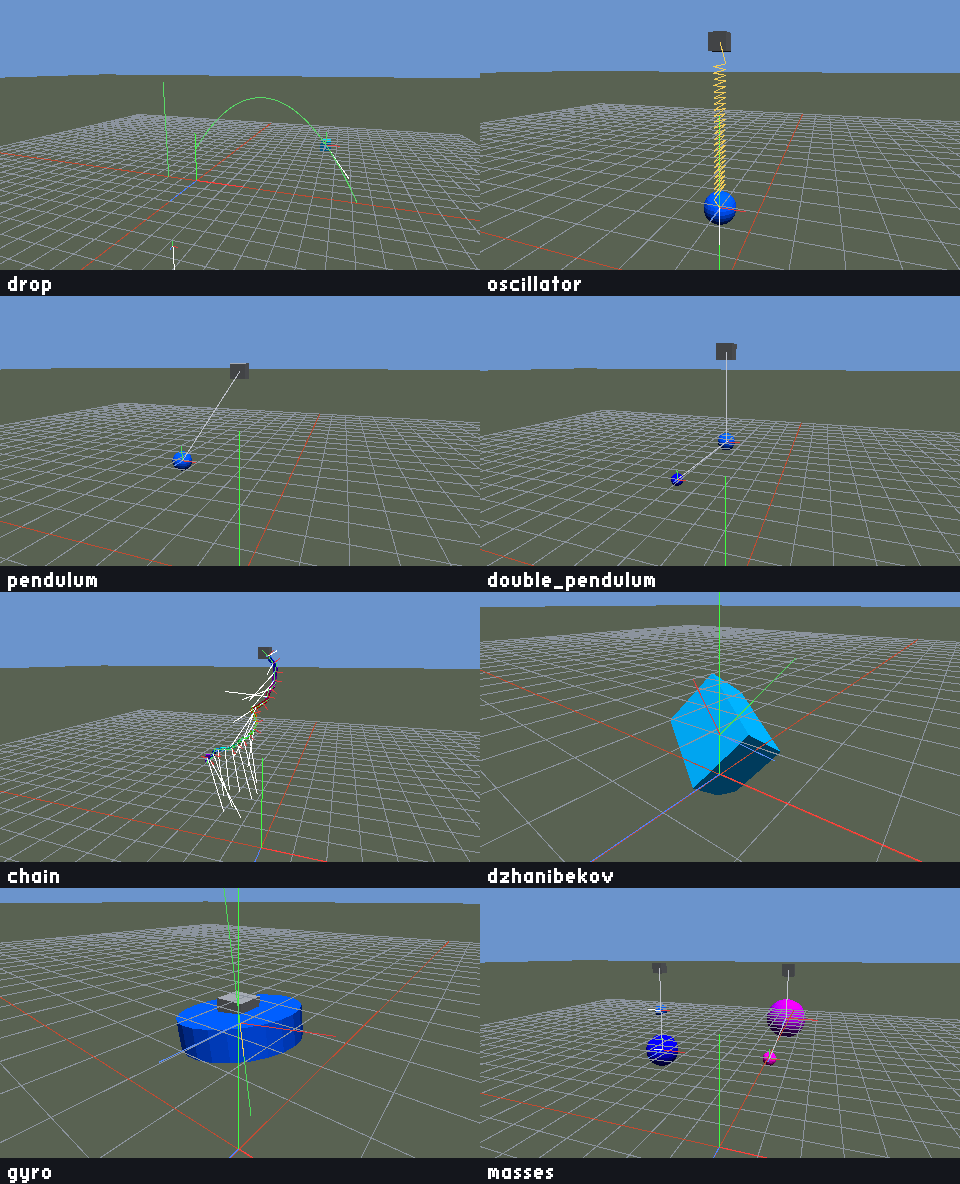
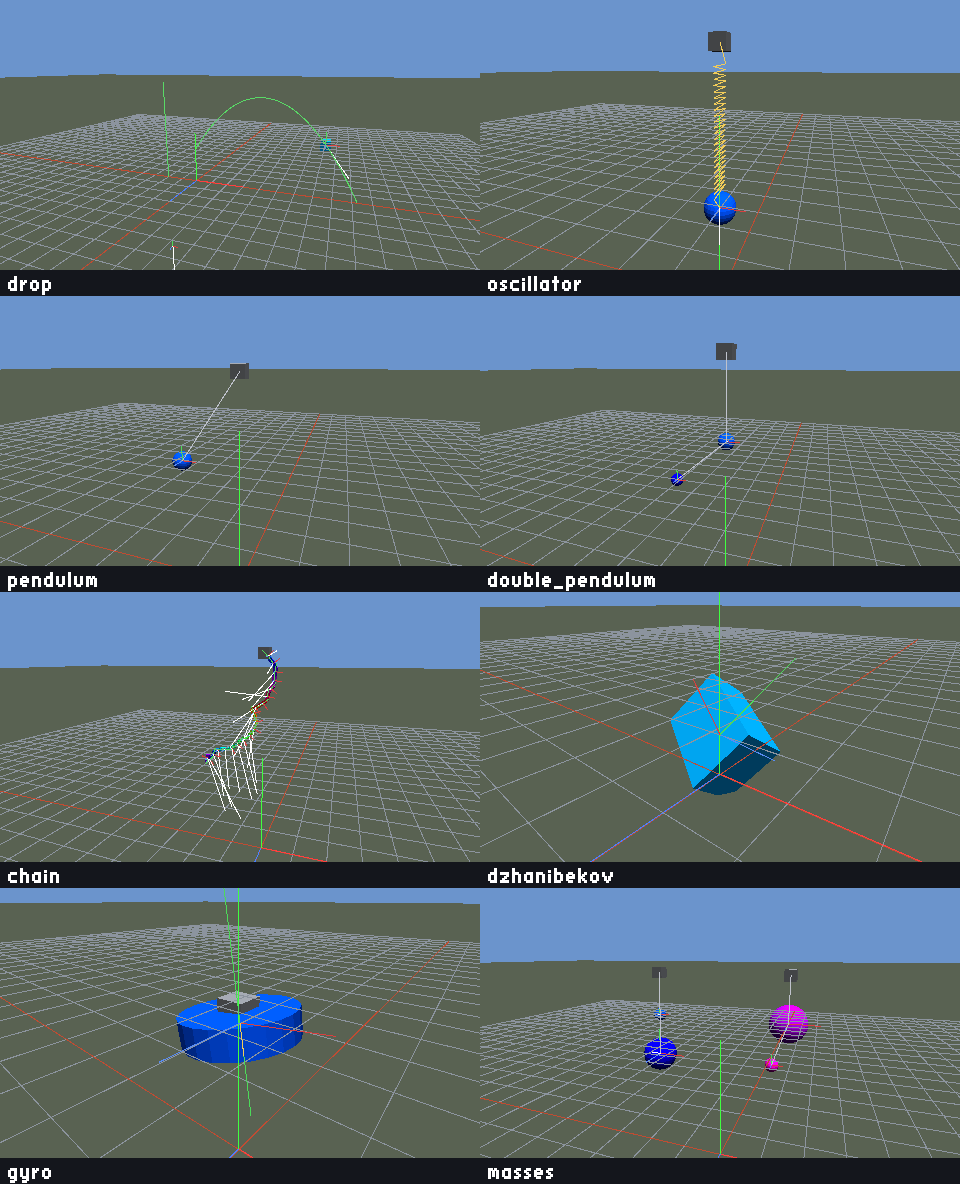
feat(scenes): show the 1:1000 chains with rigid joints
The masses demo now uses SoftParams::makeRigid() like the 1:1000 physics
tests, so the light link visibly holds the 1000 kg body instead of the
~0.17 m stretch of the default soft 60 Hz joints. Golden candidates and
the physics contact sheet are regenerated (the solver changes also move the
other jointed scenes slightly).

Changed region(s): [[0.5, 0.8125, 1.0, 0.9688], [0.2188, 0.6562, 0.25, 0.6875]]

diff --git a/apps/sim/src/PhysicsScenes.cpp b/apps/sim/src/PhysicsScenes.cpp
@@ -247,8 +247,14 @@ void buildMassesScene(physics::PhysicsWorld& world)
         physics::RigidBody& lower = addDynamic(world, lowerMass > 10.0f ? "heavy" : "light", lowerMass, shapeFor(lowerMass),
                                                physics::Vec3(x, 4.5 - 2.0 * link, 0.0));
         lower.linearVelocity = physics::Vec3(1.0, 0.0, 0.0);
-        world.createConstraint<physics::DistanceConstraint>(anchor, upper).distance = link;
-        world.createConstraint<physics::DistanceConstraint>(upper, lower).distance = link;
+        // Rigid joints (exact island solve + position projection), as in the
+        // 1:1000 physics tests; the default soft 60 Hz joints stretch ~0.17 m here.
+        physics::DistanceConstraint& top = world.createConstraint<physics::DistanceConstraint>(anchor, upper);
+        top.distance = link;
+        top.soft = physics::SoftParams::makeRigid();
+        physics::DistanceConstraint& bottom = world.createConstraint<physics::DistanceConstraint>(upper, lower);
+        bottom.distance = link;
+        bottom.soft = physics::SoftParams::makeRigid();
     };
     column(-1.5, true);
     column(1.5, false);
